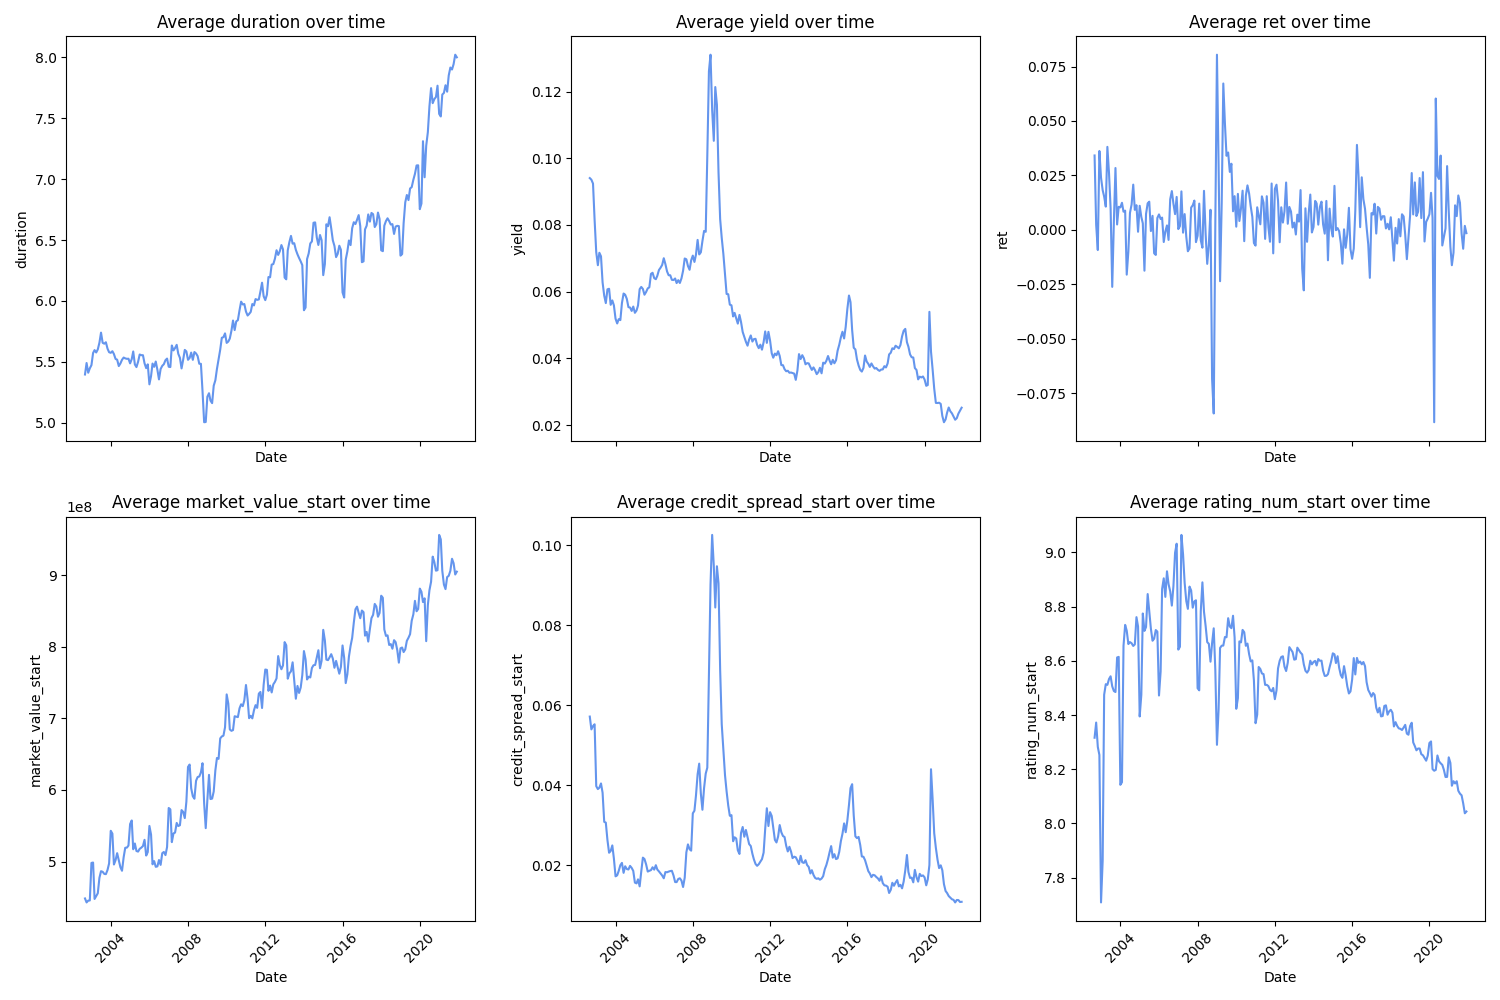
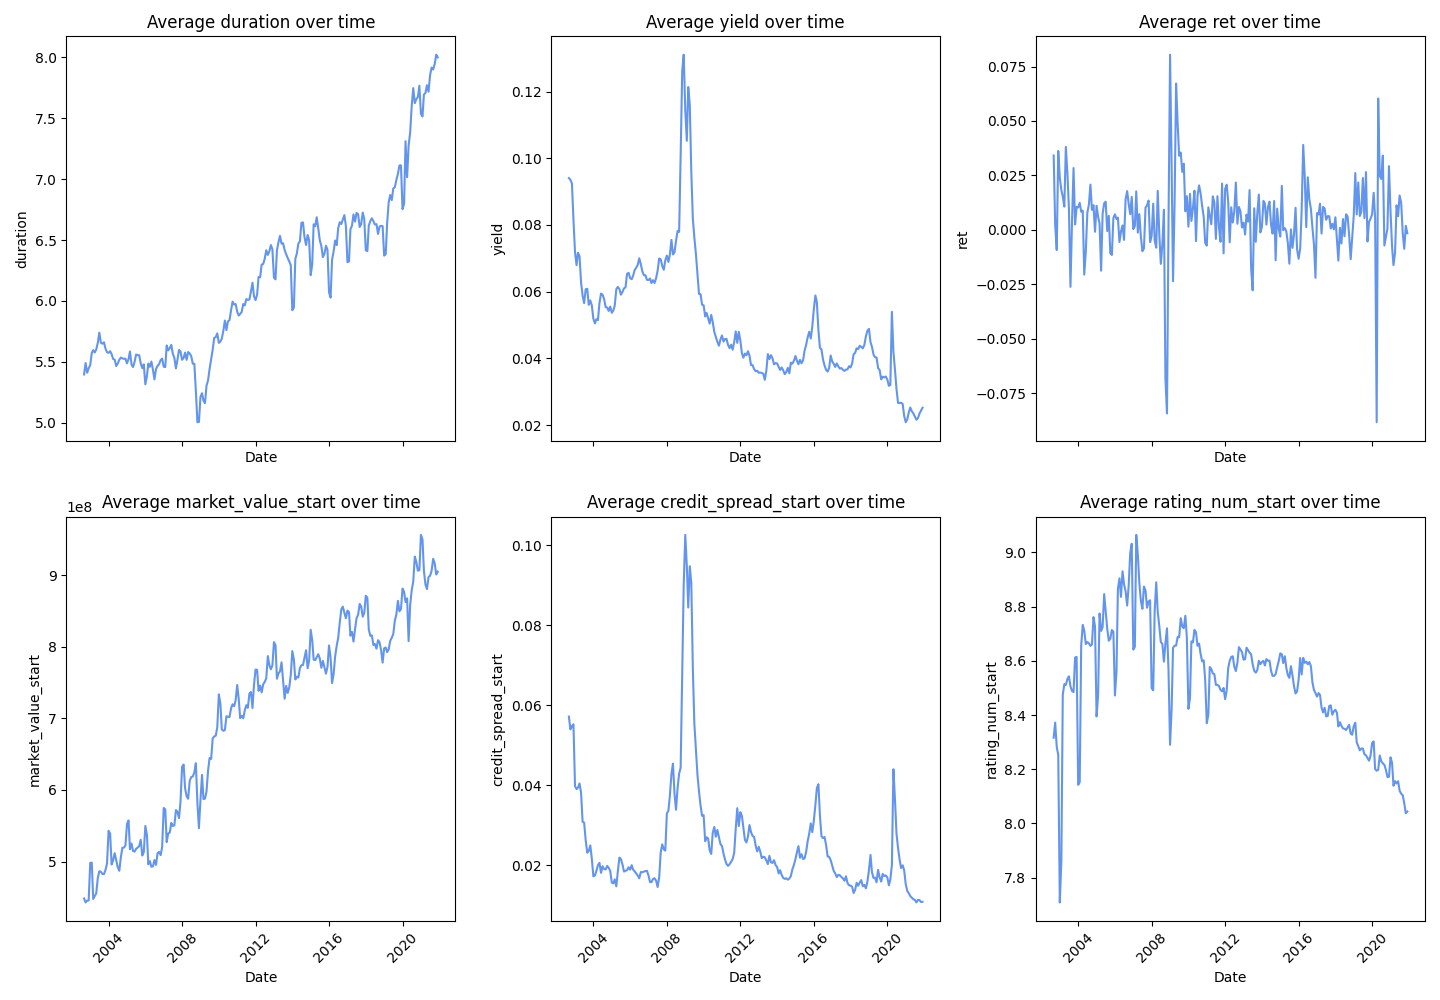
calculating alphas for split in sample and ccc+

diff --git a/py_code/3F_model_setup_halves.py b/py_code/3F_model_setup_halves.py
@@ -3,7 +3,7 @@
 #                         Part 3A: Model Setup
 #    (Calculating Beta, Capital Gain overhang, volatility, and skewness)
 #
-#         (Considers only subset including the cleaned data)
+#         (Considers only subset including the cleaned data, halves the data)
 #
 # =============================================================================
 import pandas as pd
@@ -22,8 +22,9 @@ data_folder = project_dir + "/data"
 figures_folder = project_dir + "/figures"
 
 # Importing the cleaned data
-bond_data = pd.read_csv(data_folder + "/preprocessed/bond_data.csv")
-model_data = pd.read_csv(data_folder + "/preprocessed/model_data.csv")
+bond_data = pd.read_csv(data_folder + "/preprocessed/bond_data_second_half.csv")
+
+model_data = bond_data[['eom', 'cusip', 'ret', 'ret_exc', 'ret_texc', 'credit_spread_start', 'rating_class_start', 'market_value_start', 'price_eom', 'price_eom_start', 'offering_date', 'distressed_rating_start', 'amount_outstanding']]
 model_data['eom'] = pd.to_datetime(model_data['eom'])
 model_data['offering_date'] = pd.to_datetime(model_data['offering_date'])
 
@@ -34,13 +35,24 @@ cmap = cm.get_cmap('GnBu', 5).reversed()
 # ===================================================================
 print("Setting up portfolios by month...")                                                         
 bond_data['eom'] = pd.to_datetime(model_data['eom'])
+unique_months = model_data['eom'].unique()
+portfolio_by_month = {}
+
+for month in sorted(unique_months):
+    month_data = model_data[model_data['eom'] == month].copy()
+    # Assign portfolios for this month based on credit spread and rating class
+    month_data.loc[month_data['credit_spread_start'] > 0.1, 'portfolio'] = 'DI'
+    month_data.loc[(month_data['portfolio'].isnull()) & (month_data['rating_class_start'] == '0.IG'), 'portfolio'] = 'IG'
+    month_data.loc[(month_data['portfolio'].isnull()) & (month_data['rating_class_start'] == '1.HY'), 'portfolio'] = 'HY'
+    month_data.loc[month_data['portfolio'].isnull(), 'portfolio'] = 'Other'
+    portfolio_by_month[month] = month_data
 
 # Add portfolio to the model_data 
 model_data['portfolio'] = np.nan
 model_data.loc[model_data['credit_spread_start'] > 0.1, 'portfolio'] = 'DI'
 model_data.loc[model_data['portfolio'].isnull() & (model_data['rating_class_start'] == '0.IG'), 'portfolio'] = 'IG'
 model_data.loc[model_data['portfolio'].isnull() & (model_data['rating_class_start'] == '1.HY'), 'portfolio'] = 'HY'
-model_data.to_csv("data/preprocessed/model_data.csv")
+#model_data.to_csv("data/preprocessed/model_data.csv")
 print("Done setting up portfolios")
 
 # print("Portfolio counts:")
@@ -234,7 +246,7 @@ def compute_effective_purchase_price_exponential(group):
 print('Applying the function group-wise by bond (cusip) ...')
 model_data = model_data.sort_values(['cusip', 'eom'])
 model_data = model_data.groupby('cusip').apply(compute_effective_purchase_price_exponential).reset_index(drop=True)
-model_data.to_csv(os.path.join(data_folder + "/preprocessed/model_data_cgo.csv"), index=False)
+model_data.to_csv(os.path.join(data_folder + "/preprocessed/model_data_cgo_halves2.csv"), index=False)
 
 # Aggregate CGO at portfolio level, first monthly then yearly
 monthly_cgo = (
@@ -253,6 +265,7 @@ model_data = model_data.sort_values(['cusip', 'eom'])
 
 # Use when comparing to Avramov data
 # model_data['ret_texc'] = model_data['ret_exc']
+
 model_data['log_texc'] = np.log(1 + model_data['ret_texc'])
 
 def compute_annual_return(bond_df):
@@ -304,7 +317,6 @@ final_monthly_df = final_monthly_df.merge(
     final_vol_skew[['eom', 'portfolio', 'volatility', 'skewness']],
     on=['eom', 'portfolio'],
     how='left')
-final_monthly_df.to_csv(os.path.join(data_folder, "preprocessed", "final_monthly_data.csv"), index=False)
 print("Final monthly dataset created.")
 
 # =============================================================================
@@ -312,41 +324,6 @@ print("Final monthly dataset created.")
 # =============================================================================
 print("Obtaining average values for each bond portfolio...")
 average_metrics = final_monthly_df.groupby("portfolio")[["beta", "cap_gain_overhang", "volatility", "skewness"]].mean()
-average_metrics.to_csv(os.path.join(data_folder, "preprocessed", "average_metrics.csv"), index=False)
+average_metrics.to_csv(os.path.join(data_folder, "preprocessed", "average_metrics_secondhalf.csv"), index=False)
 print("Average metrics per bond portfolio:")
 print(average_metrics)
-
-median_metrics = final_monthly_df.groupby("portfolio")[["beta", "cap_gain_overhang", "volatility", "skewness"]].median()
-#median_metrics.to_csv(os.path.join(data_folder, "preprocessed", "median_metrics.csv"), index=False)
-print("Median metrics per bond portfolio:")
-print(median_metrics)
-
-# ======================================================================================
-#       i. Checking the accuracy of the CGO calculations (Time Series Visualization)
-# ======================================================================================
-# Calculate the average capital gain overhang for each month and portfolio.
-model_data_cgo = pd.read_csv(data_folder + "/preprocessed/model_data_cgo.csv")
-portfolio_cgo = model_data_cgo.groupby(['eom', 'portfolio'])['cap_gain_overhang'].mean().reset_index()
-unique_portfolios = sorted(portfolio_cgo['portfolio'].dropna().unique())
-palette_colors = [cmap(i+1) for i in range(len(unique_portfolios))]
-portfolio_cgo['eom'] = pd.to_datetime(portfolio_cgo['eom'])
-
-earliest_date = portfolio_cgo['eom'].min()
-portfolio_cgo = portfolio_cgo[portfolio_cgo['eom'] > earliest_date]
-
-plt.figure(figsize=(12, 6))
-for i, portfolio in enumerate(unique_portfolios):
-    sub_df = portfolio_cgo[portfolio_cgo['portfolio'] == portfolio]
-    plt.plot(
-        sub_df['eom'], sub_df['cap_gain_overhang'],
-        label=portfolio,
-        color=palette_colors[i]
-    )
-plt.xlabel('Date (eom)')
-plt.ylabel('Average Capital Gain Overhang (%)')
-plt.title('Monthly Average Capital Gain Overhang by Group')
-plt.xticks(rotation=45)
-plt.legend()
-plt.tight_layout()
-plt.savefig(os.path.join(figures_folder, "monthly_cgo_by_portfolio.png"))
-plt.close()

diff --git a/py_code/3A_model_setup copy.py b/py_code/3A_model_setup copy.py
@@ -23,7 +23,9 @@ figures_folder = project_dir + "/figures"
 
 # Importing the cleaned data
 bond_data = pd.read_csv(data_folder + "/preprocessed/bond_data.csv")
-model_data = pd.read_csv(data_folder + "/preprocessed/model_data.csv")
+model_data = bond_data[['eom', 'cusip', 'ret', 'ret_exc', 'ret_texc', 'rating_num','credit_spread_start', 'rating_class_start', 'market_value_start', 'price_eom', 'price_eom_start', 'offering_date', 'distressed_rating_start', 'amount_outstanding']]
+model_data['eom'] = pd.to_datetime(model_data['eom'])
+model_data['offering_date'] = pd.to_datetime(model_data['offering_date'])
 model_data['eom'] = pd.to_datetime(model_data['eom'])
 model_data['offering_date'] = pd.to_datetime(model_data['offering_date'])
 
@@ -33,14 +35,16 @@ cmap = cm.get_cmap('GnBu', 5).reversed()
 #                     a. Set up portfolios by month        
 # ===================================================================
 print("Setting up portfolios by month...")                                                         
-bond_data['eom'] = pd.to_datetime(model_data['eom'])
+bond_data['eom'] = pd.to_datetime(bond_data['eom'])
 
 # Add portfolio to the model_data 
 model_data['portfolio'] = np.nan
-model_data.loc[model_data['credit_spread_start'] > 0.1, 'portfolio'] = 'DI'
+# model_data.loc[model_data['credit_spread_start'] > 0.1, 'portfolio'] = 'DI'
+# model_data.loc[model_data['rating_num_'] > 16.5, 'portfolio'] = 'DI'
+model_data.loc[model_data['distressed_rating_start'] == True , 'portfolio'] = 'DI'
 model_data.loc[model_data['portfolio'].isnull() & (model_data['rating_class_start'] == '0.IG'), 'portfolio'] = 'IG'
 model_data.loc[model_data['portfolio'].isnull() & (model_data['rating_class_start'] == '1.HY'), 'portfolio'] = 'HY'
-model_data.to_csv("data/preprocessed/model_data.csv")
+# model_data.to_csv("data/preprocessed/model_data.csv")
 print("Done setting up portfolios")
 
 # print("Portfolio counts:")
@@ -234,7 +238,7 @@ def compute_effective_purchase_price_exponential(group):
 print('Applying the function group-wise by bond (cusip) ...')
 model_data = model_data.sort_values(['cusip', 'eom'])
 model_data = model_data.groupby('cusip').apply(compute_effective_purchase_price_exponential).reset_index(drop=True)
-model_data.to_csv(os.path.join(data_folder + "/preprocessed/model_data_cgo.csv"), index=False)
+model_data.to_csv(os.path.join(data_folder + "/preprocessed/model_data_cgo_ccc.csv"), index=False)
 
 # Aggregate CGO at portfolio level, first monthly then yearly
 monthly_cgo = (
@@ -304,7 +308,7 @@ final_monthly_df = final_monthly_df.merge(
     final_vol_skew[['eom', 'portfolio', 'volatility', 'skewness']],
     on=['eom', 'portfolio'],
     how='left')
-final_monthly_df.to_csv(os.path.join(data_folder, "preprocessed", "final_monthly_data.csv"), index=False)
+#final_monthly_df.to_csv(os.path.join(data_folder, "preprocessed", "final_monthly_data.csv"), index=False)
 print("Final monthly dataset created.")
 
 # =============================================================================
@@ -312,41 +316,6 @@ print("Final monthly dataset created.")
 # =============================================================================
 print("Obtaining average values for each bond portfolio...")
 average_metrics = final_monthly_df.groupby("portfolio")[["beta", "cap_gain_overhang", "volatility", "skewness"]].mean()
-average_metrics.to_csv(os.path.join(data_folder, "preprocessed", "average_metrics.csv"), index=False)
+average_metrics.to_csv(os.path.join(data_folder, "preprocessed", "average_metrics_ccc.csv"), index=False)
 print("Average metrics per bond portfolio:")
 print(average_metrics)
-
-median_metrics = final_monthly_df.groupby("portfolio")[["beta", "cap_gain_overhang", "volatility", "skewness"]].median()
-#median_metrics.to_csv(os.path.join(data_folder, "preprocessed", "median_metrics.csv"), index=False)
-print("Median metrics per bond portfolio:")
-print(median_metrics)
-
-# ======================================================================================
-#       i. Checking the accuracy of the CGO calculations (Time Series Visualization)
-# ======================================================================================
-# Calculate the average capital gain overhang for each month and portfolio.
-model_data_cgo = pd.read_csv(data_folder + "/preprocessed/model_data_cgo.csv")
-portfolio_cgo = model_data_cgo.groupby(['eom', 'portfolio'])['cap_gain_overhang'].mean().reset_index()
-unique_portfolios = sorted(portfolio_cgo['portfolio'].dropna().unique())
-palette_colors = [cmap(i+1) for i in range(len(unique_portfolios))]
-portfolio_cgo['eom'] = pd.to_datetime(portfolio_cgo['eom'])
-
-earliest_date = portfolio_cgo['eom'].min()
-portfolio_cgo = portfolio_cgo[portfolio_cgo['eom'] > earliest_date]
-
-plt.figure(figsize=(12, 6))
-for i, portfolio in enumerate(unique_portfolios):
-    sub_df = portfolio_cgo[portfolio_cgo['portfolio'] == portfolio]
-    plt.plot(
-        sub_df['eom'], sub_df['cap_gain_overhang'],
-        label=portfolio,
-        color=palette_colors[i]
-    )
-plt.xlabel('Date (eom)')
-plt.ylabel('Average Capital Gain Overhang (%)')
-plt.title('Monthly Average Capital Gain Overhang by Group')
-plt.xticks(rotation=45)
-plt.legend()
-plt.tight_layout()
-plt.savefig(os.path.join(figures_folder, "monthly_cgo_by_portfolio.png"))
-plt.close()

diff --git a/py_code/4D_finding_S_z_halves.py b/py_code/4D_finding_S_z_halves.py
@@ -1,8 +1,8 @@
 # =============================================================================
 #
-#                     Part 4A: Finding S_i and zeta_i
+#                     Part 4D: Finding S_i and zeta_i
 #
-#           (Considers only subset including the cleaned data)
+#           (Considers only subset including the cleaned data, halves the data)
 #
 # =============================================================================
 
@@ -19,8 +19,8 @@ import matplotlib.pyplot as plt
 #Set up working directory
 project_dir = os.getcwd()   # Change to your project directory
 data_folder = project_dir + "/data"
-model_data_cgo = pd.read_csv(data_folder + "/preprocessed/model_data_cgo_ccc.csv")
-average_metrics = pd.read_csv(data_folder + "/preprocessed/average_metrics_ccc.csv")
+model_data_cgo = pd.read_csv(data_folder + "/preprocessed/model_data_cgo_halves2.csv")
+average_metrics = pd.read_csv(data_folder + "/preprocessed/average_metrics_secondhalf.csv")
 
 # ===================================================================    
 #                     a. Set up known parameters        
@@ -71,7 +71,7 @@ thetas_df = pd.DataFrame({'portfolio': portfolios,'theta_mi': theta_values})
 thetas_df['theta_i_minus1'] = thetas_df['theta_mi']
 # print("thetas_df DataFrame:")
 # print(thetas_df)
-thetas_df.to_csv(data_folder + '/preprocessed/thetas_df_ccc.csv')
+thetas_df.to_csv(data_folder + '/preprocessed/thetas_df_firsthalf.csv')
 
 # =========================================================================================
 #                                    Calculating S and zeta
@@ -119,6 +119,6 @@ average_metrics["zeta"] = zeta_values
 # Create the updated dataframe
 average_metrics_updated = average_metrics.copy()
 print(average_metrics_updated)
-average_metrics_updated.to_csv(data_folder + '/preprocessed/average_metrics_updated_ccc.csv', index=False)
+average_metrics_updated.to_csv(data_folder + '/preprocessed/average_metrics_secondhalf_updated.csv', index=False)
 
 print("Average metrics updated with Si and zeta values")

diff --git a/py_code/2_descriptive_statistics.py b/py_code/2_descriptive_statistics.py
@@ -34,7 +34,7 @@ model_data['eom'] = pd.to_datetime(model_data['eom'])
 model_data['offering_date'] = pd.to_datetime(model_data['offering_date'])
 model_data.to_csv("data/preprocessed/model_data.csv") #saving the smaller dataframe
 
-### Creating portfolios
+# Creating portfolios
 model_data['eom'] = pd.to_datetime(model_data['eom'])
 unique_months = model_data['eom'].unique()
 
@@ -51,7 +51,7 @@ model_data.loc[model_data['portfolio'].isnull() & (model_data['rating_class_star
 #Load descriptive statistics
 print("Descriptive statistics:")
 descriptive_variables = ['size', 'ret', 'ret_texc', 'duration', 'market_value_start', 
-                         'maturity_years','credit_spread_start', 'rating_num_start']
+                         'maturity_years','credit_spread_start', 'rating_num_start','amount_outstanding']
 
 # Descriptive statistics for the clean dataset
 summary_stats = bond_data[descriptive_variables].describe(include='all')

diff --git a/py_code/1B_dataset.py b/py_code/1B_dataset.py
@@ -293,8 +293,16 @@ bond_data = pd.merge(
     on=['cusip', 'eom'],
     how='left'
 )
+# ================  Split bond data in two samples  ================
+bond_data['eom'] = pd.to_datetime(bond_data['eom'])
+bond_data = bond_data.sort_values('eom').reset_index(drop=True)
+mid_row   = len(bond_data) // 2
+first_half  = bond_data.iloc[:mid_row]
+second_half = bond_data.iloc[mid_row:]
 
 # ================  Save the data  ================
+first_half.to_csv("data/preprocessed/bond_data_first_half.csv")
+second_half.to_csv("data/preprocessed/bond_data_second_half.csv")
 bond_data.to_csv("data/preprocessed/bond_data.csv")
 bond_data_large.to_csv("data/preprocessed/bond_data_large.csv")
 avramov_dataset.to_csv("data/preprocessed/avramov_dataset.csv")
